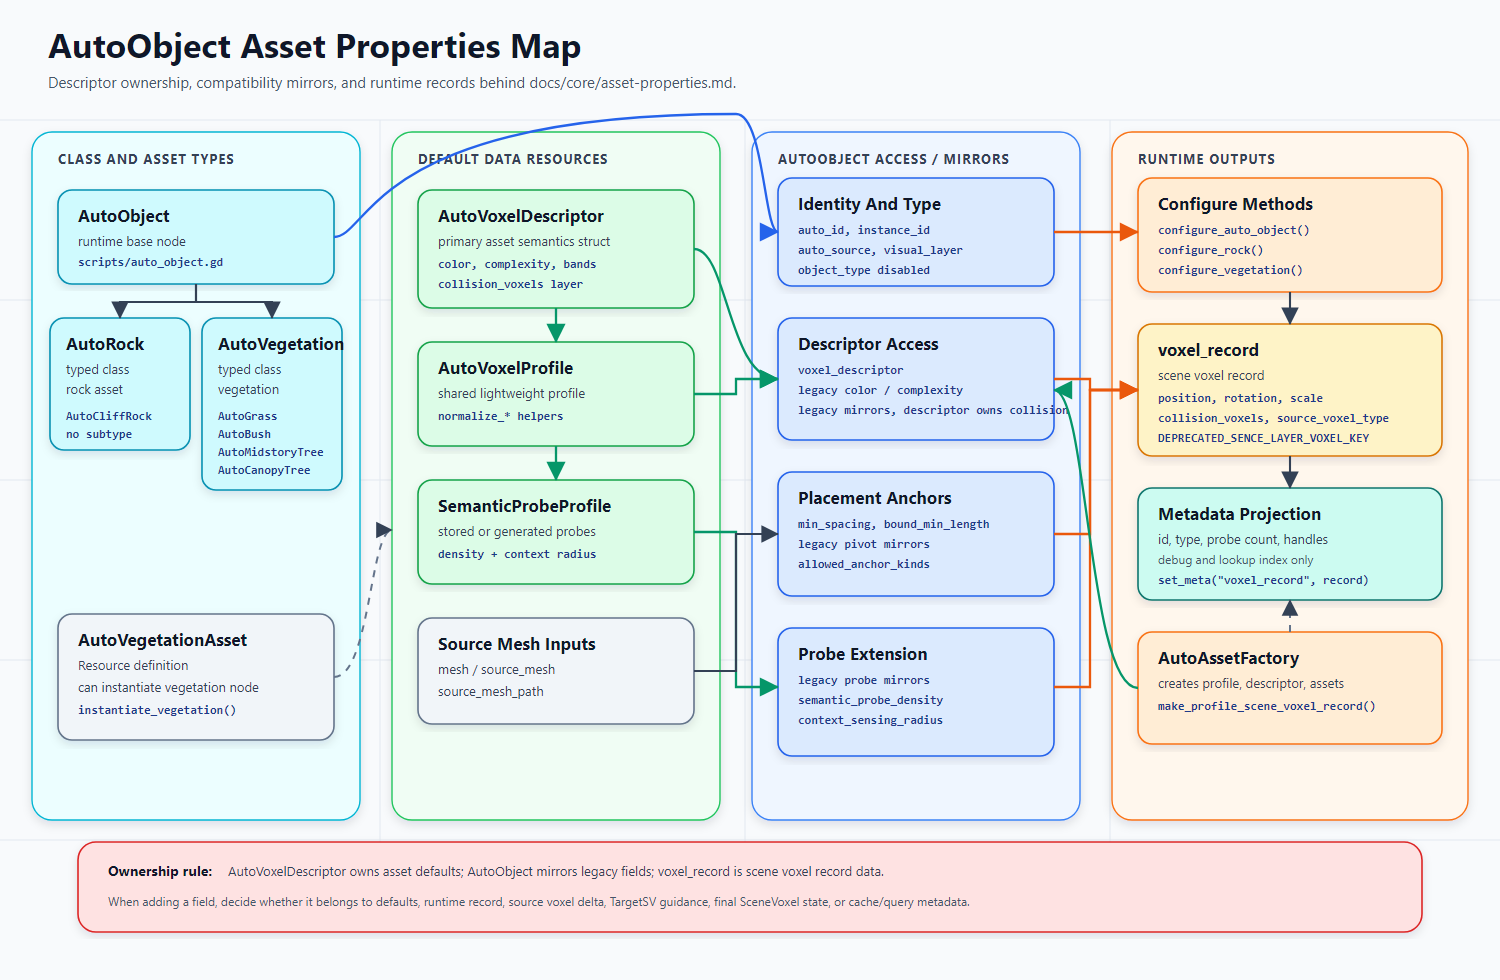
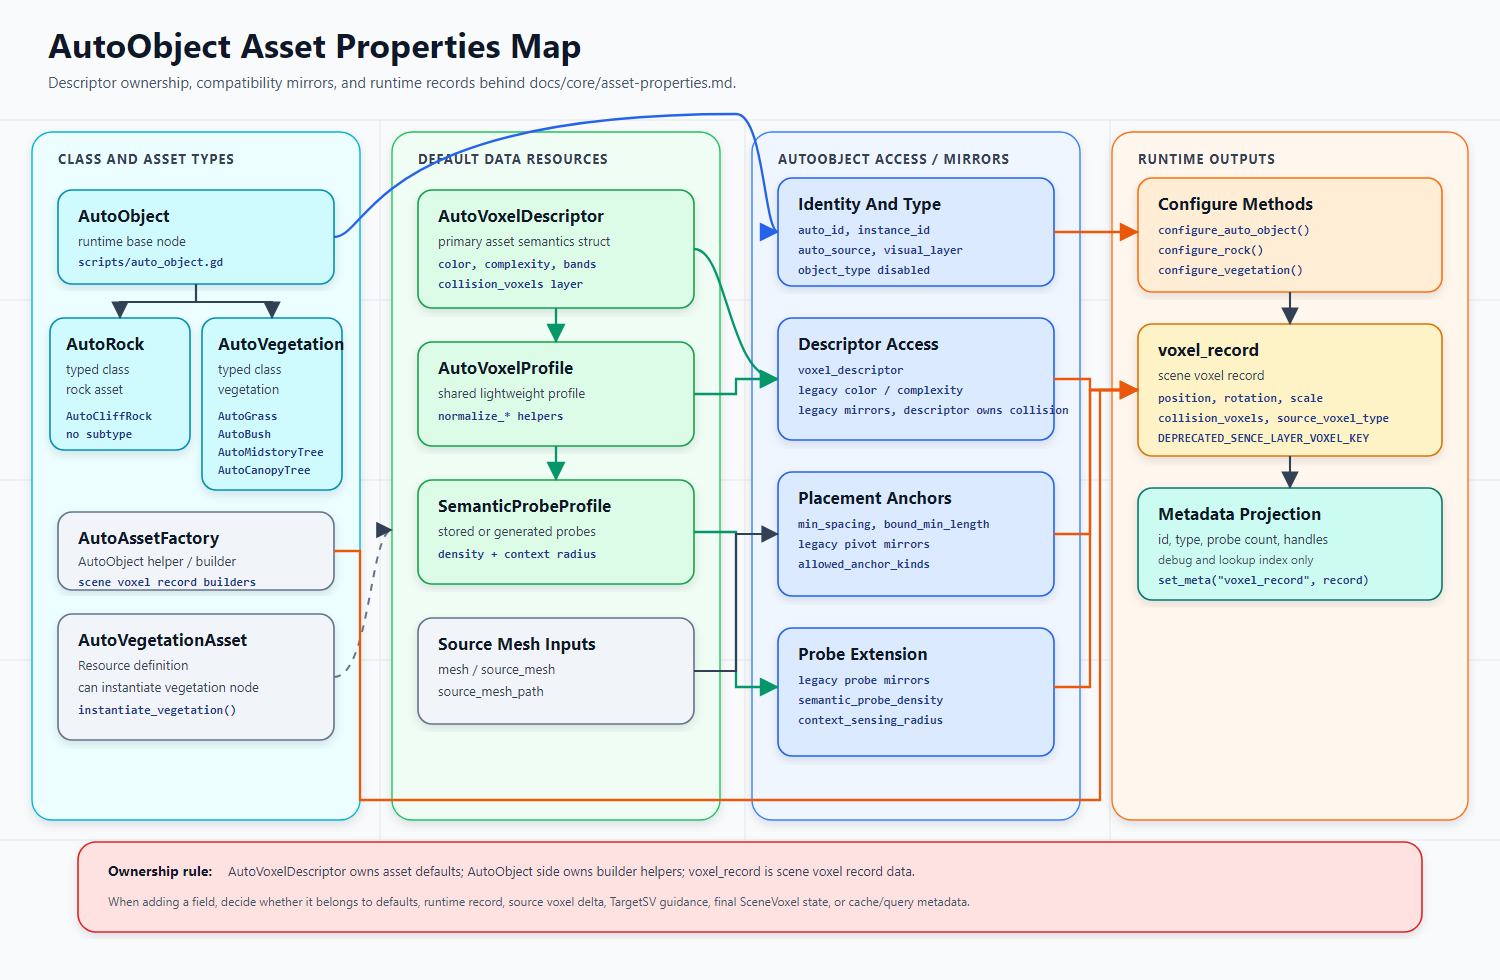
Move AutoAssetFactory under AutoObject docs

diff --git a/docs/core/scene-voxel-field-system.md b/docs/core/scene-voxel-field-system.md
@@ -126,7 +126,7 @@ AutoVoxelDescriptor / brush edit / target guidance
 
 ## `voxel_record`
 
-`voxel_record` 是运行时 placement / source voxel record，由 `AutoAssetFactory.make_profile_scene_voxel_record()`、typed wrapper 或 placement builder 生成。它把一次实例落点、视觉 band、collision 声明和 source 上下文交给 `apply_mesh_voxel_record()`，后续再写入 source voxel delta 并由 `blend_scene_voxels()` 提交。
+`voxel_record` 是 scene voxel record 数据，由 `AutoAssetFactory.make_profile_scene_voxel_record()`、typed wrapper 或 placement builder 生成。它把一次实例落点、视觉 band、collision 声明和 source 上下文交给 `apply_mesh_voxel_record()`，后续再写入 source voxel delta 并由 `blend_scene_voxels()` 提交。
 
 | 字段 | 含义 |
 | --- | --- |

diff --git a/docs/core/asset-properties.md b/docs/core/asset-properties.md
@@ -29,7 +29,7 @@
 | `AutoVegetationAsset` | 植被资源定义，可实例化运行时节点 | `scripts/auto_vegetation_asset.gd` |
 | `AutoVoxelDescriptor` | 资产默认体素语义、pivot 和 semantic probe 配置的唯一权威来源 | `scripts/auto_voxel_descriptor.gd` |
 | `AutoVoxelProfile` | 轻量共享体素 profile，保存颜色、复杂度、bands 和 collision | `scripts/auto_voxel_profile.gd` |
-| `AutoAssetFactory` | 脚本化创建资产、profile、descriptor 和 `voxel_record` | `scripts/auto_asset_factory.gd` |
+| `AutoAssetFactory` | AutoObject 侧脚本化 builder/helper；创建 profile、descriptor 和 scene voxel record | `scripts/auto_asset_factory.gd` |
 
 ## `AutoObject` 运行时字段 / descriptor 兼容入口
 
